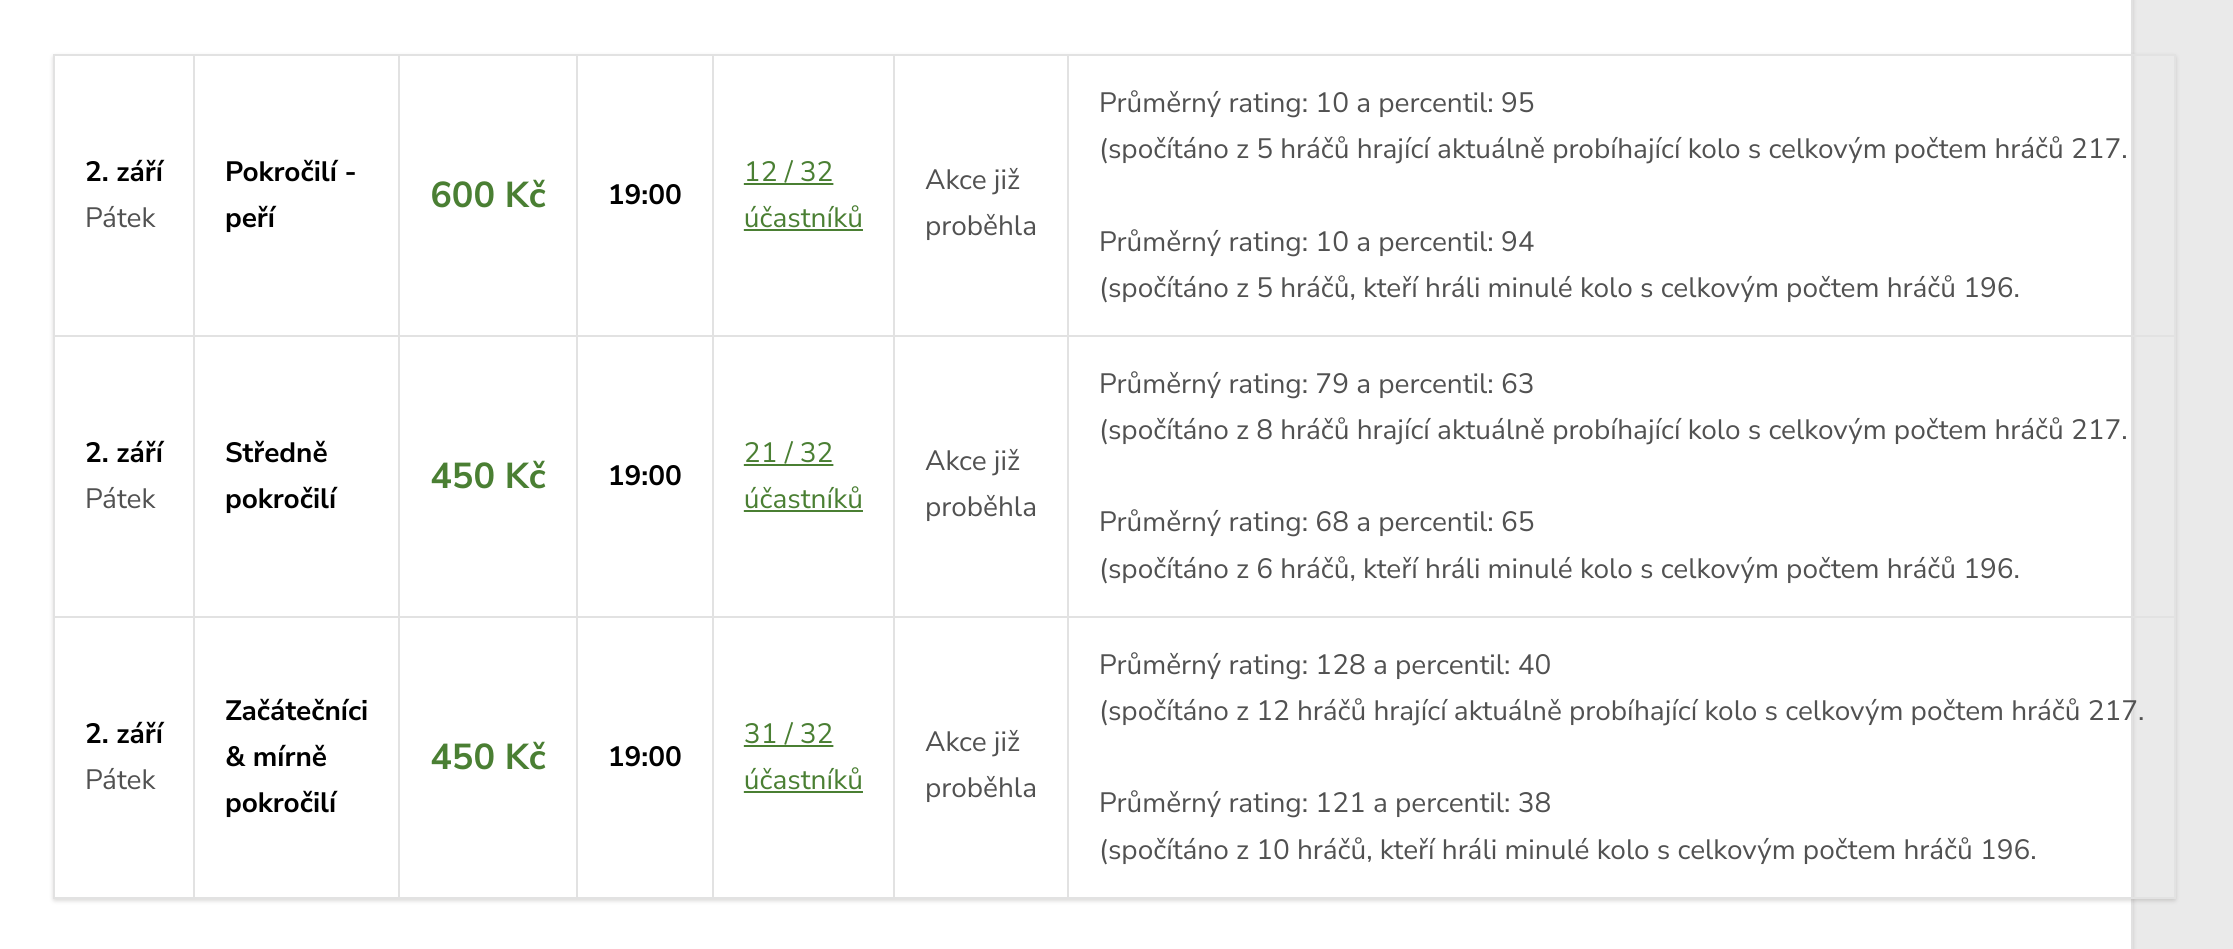
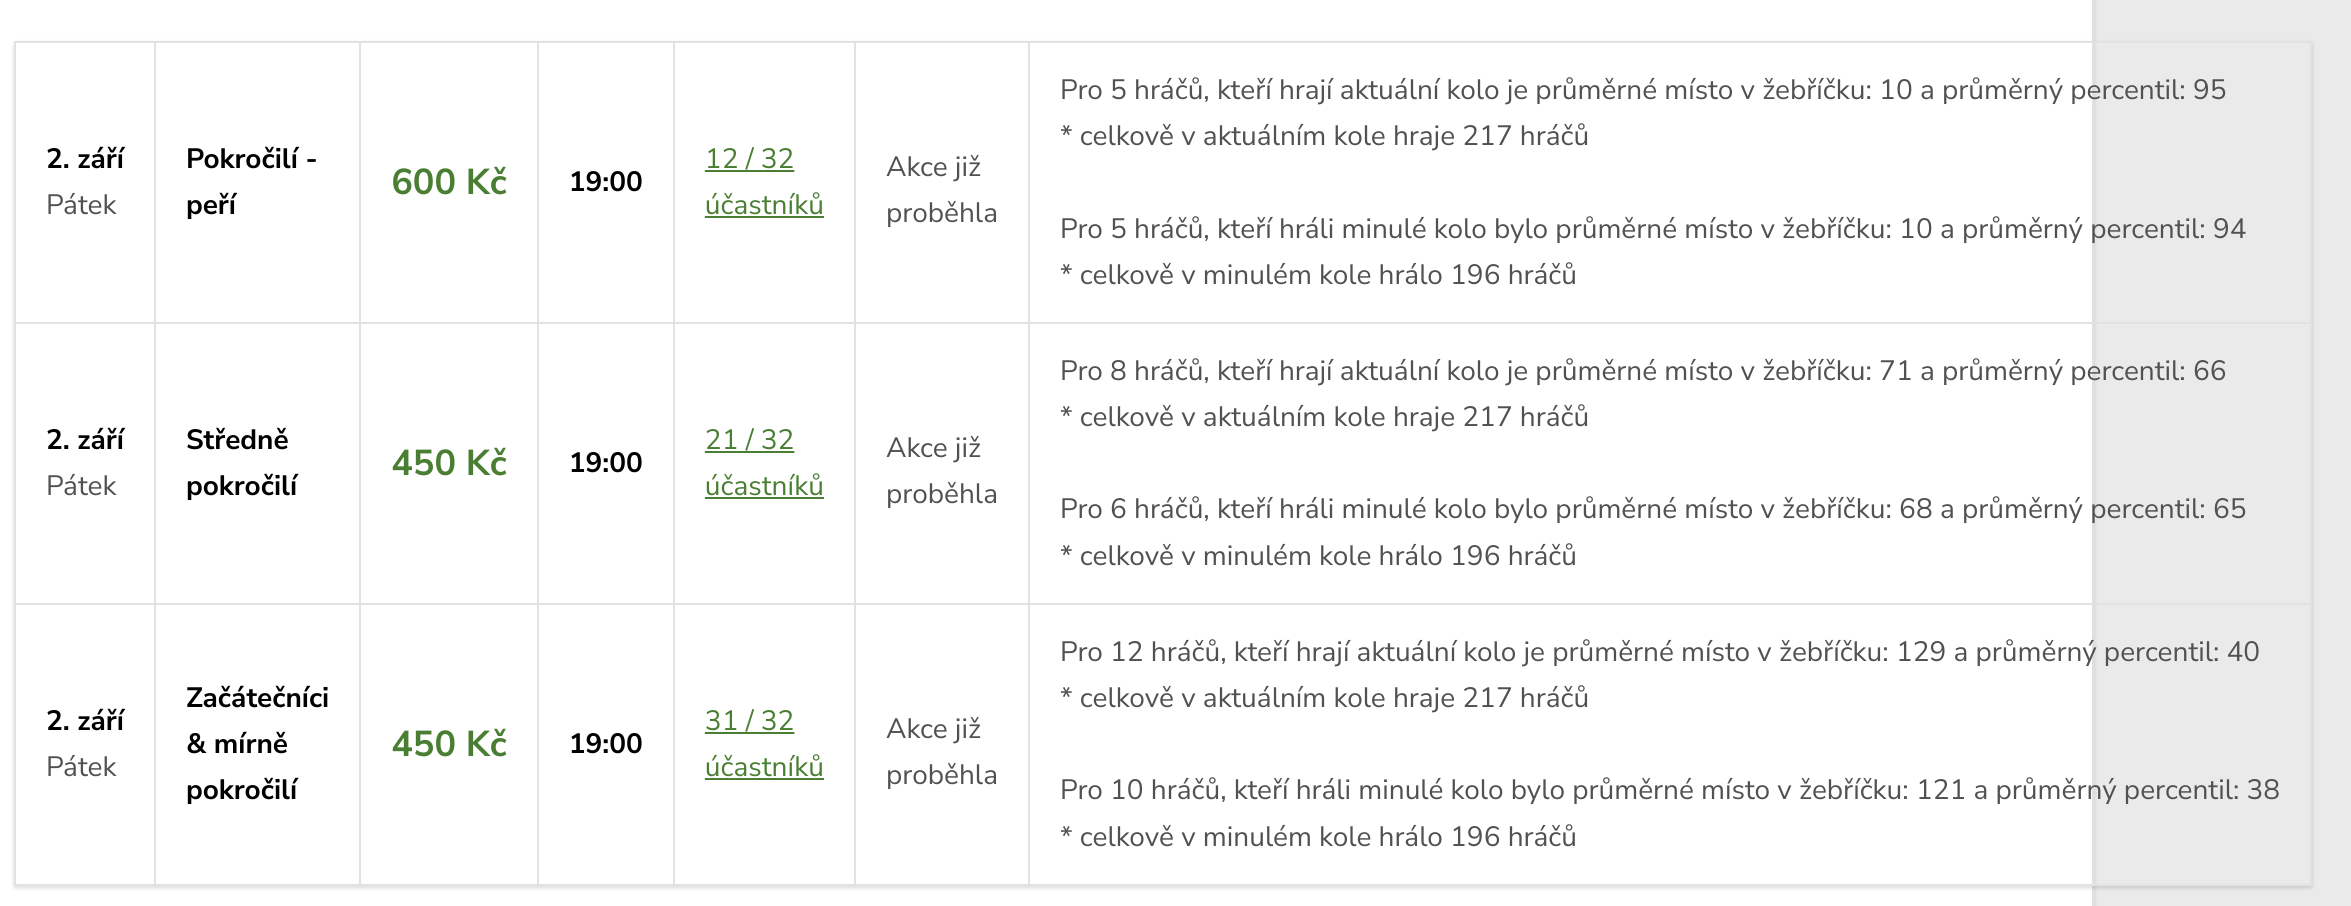
Improved messages

diff --git a/content/content.js b/content/content.js
@@ -12,14 +12,16 @@ const INTERMEDIATE = 'Středně pokročilí'
 const BEGINERS = 'Začátečníci'
 const ADVANCED = 'Pokročilí'
 
+
 function getAverageStatsForAllPlayersCurrentRoundText(
     averagePlayersRating, 
     averagePlayerPercentil,
     countPlayersWithRating,
     countPlayers
 ) {
-    return "Průměrné místo v žebříčku: " + averagePlayersRating + " a percentil: " + averagePlayerPercentil + "<br>(spočítáno z " + countPlayersWithRating + " hráčů hrající aktuálně probíhající kolo s celkovým počtem hráčů " + countPlayers + "."
+    return "Pro " + countPlayersWithRating + " hráčů, kteří hrají aktuální kolo je průměrné místo v žebříčku: " + averagePlayersRating + " a průměrný percentil: " + averagePlayerPercentil + ".<br> * celkově v aktuálním kole hraje " + countPlayers + " hráčů"
 }
+
 
 function getAverageStatsForAllPlayersPreviousRoundText(
     averagePlayersRating, 
@@ -27,7 +29,7 @@ function getAverageStatsForAllPlayersPreviousRoundText(
     countPlayersWithRating,
     countPlayers
 ) {
-    return "<br><br>Průměrné místo v žebříčku: " + averagePlayersRating + " a percentil: " + averagePlayerPercentil + "<br>(spočítáno z " + countPlayersWithRating + " hráčů, kteří hráli minulé kolo s celkovým počtem hráčů " + countPlayers + "."
+    return "<br><br>Pro " + countPlayersWithRating + " hráčů, kteří hráli minulé kolo bylo průměrné místo v žebříčku: " + averagePlayersRating + " a průměrný percentil: " + averagePlayerPercentil + ".<br> * celkově v minulém kole hrálo " + countPlayers + " hráčů"
 }
 
 
@@ -63,6 +65,7 @@ function getAdditionalStatsElement(query, skillCategoryName) {
     }
     return additionalStats
 }
+
 
 function displayAdditionalStatsForPlayersParticipatingToEvent(rankingTableUrl, additionalTextCallback, skillCategoryName, callback) {
 
